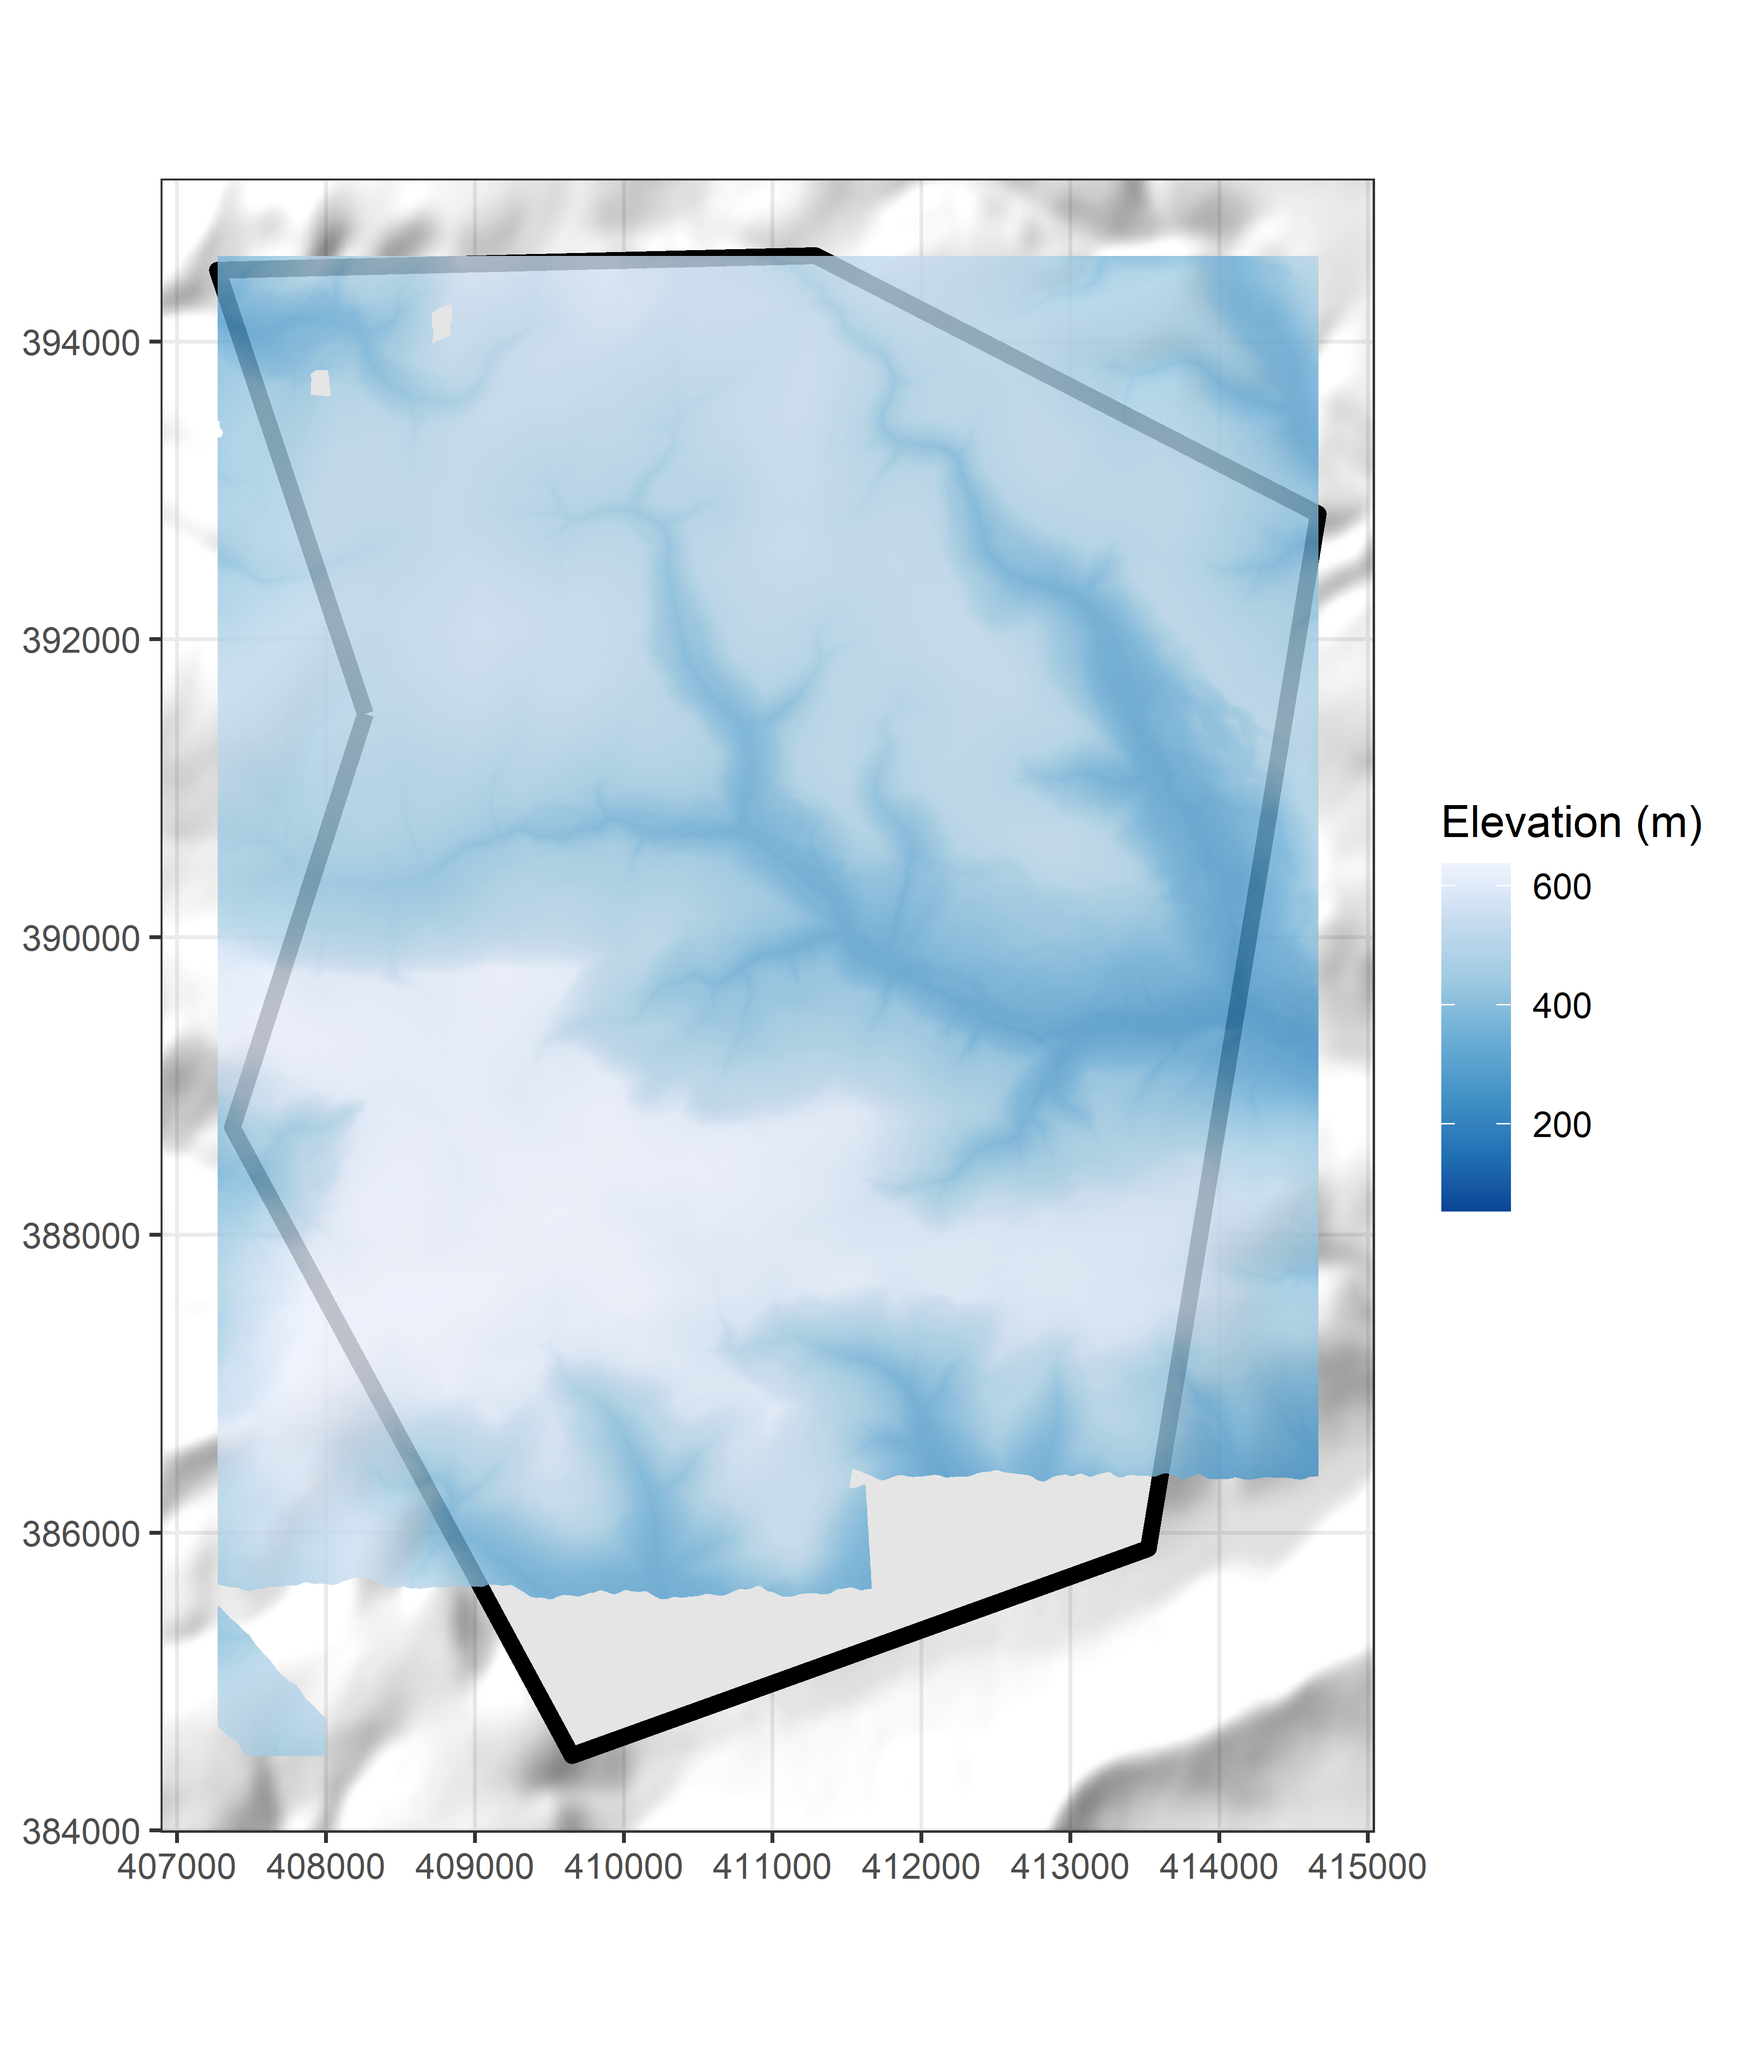
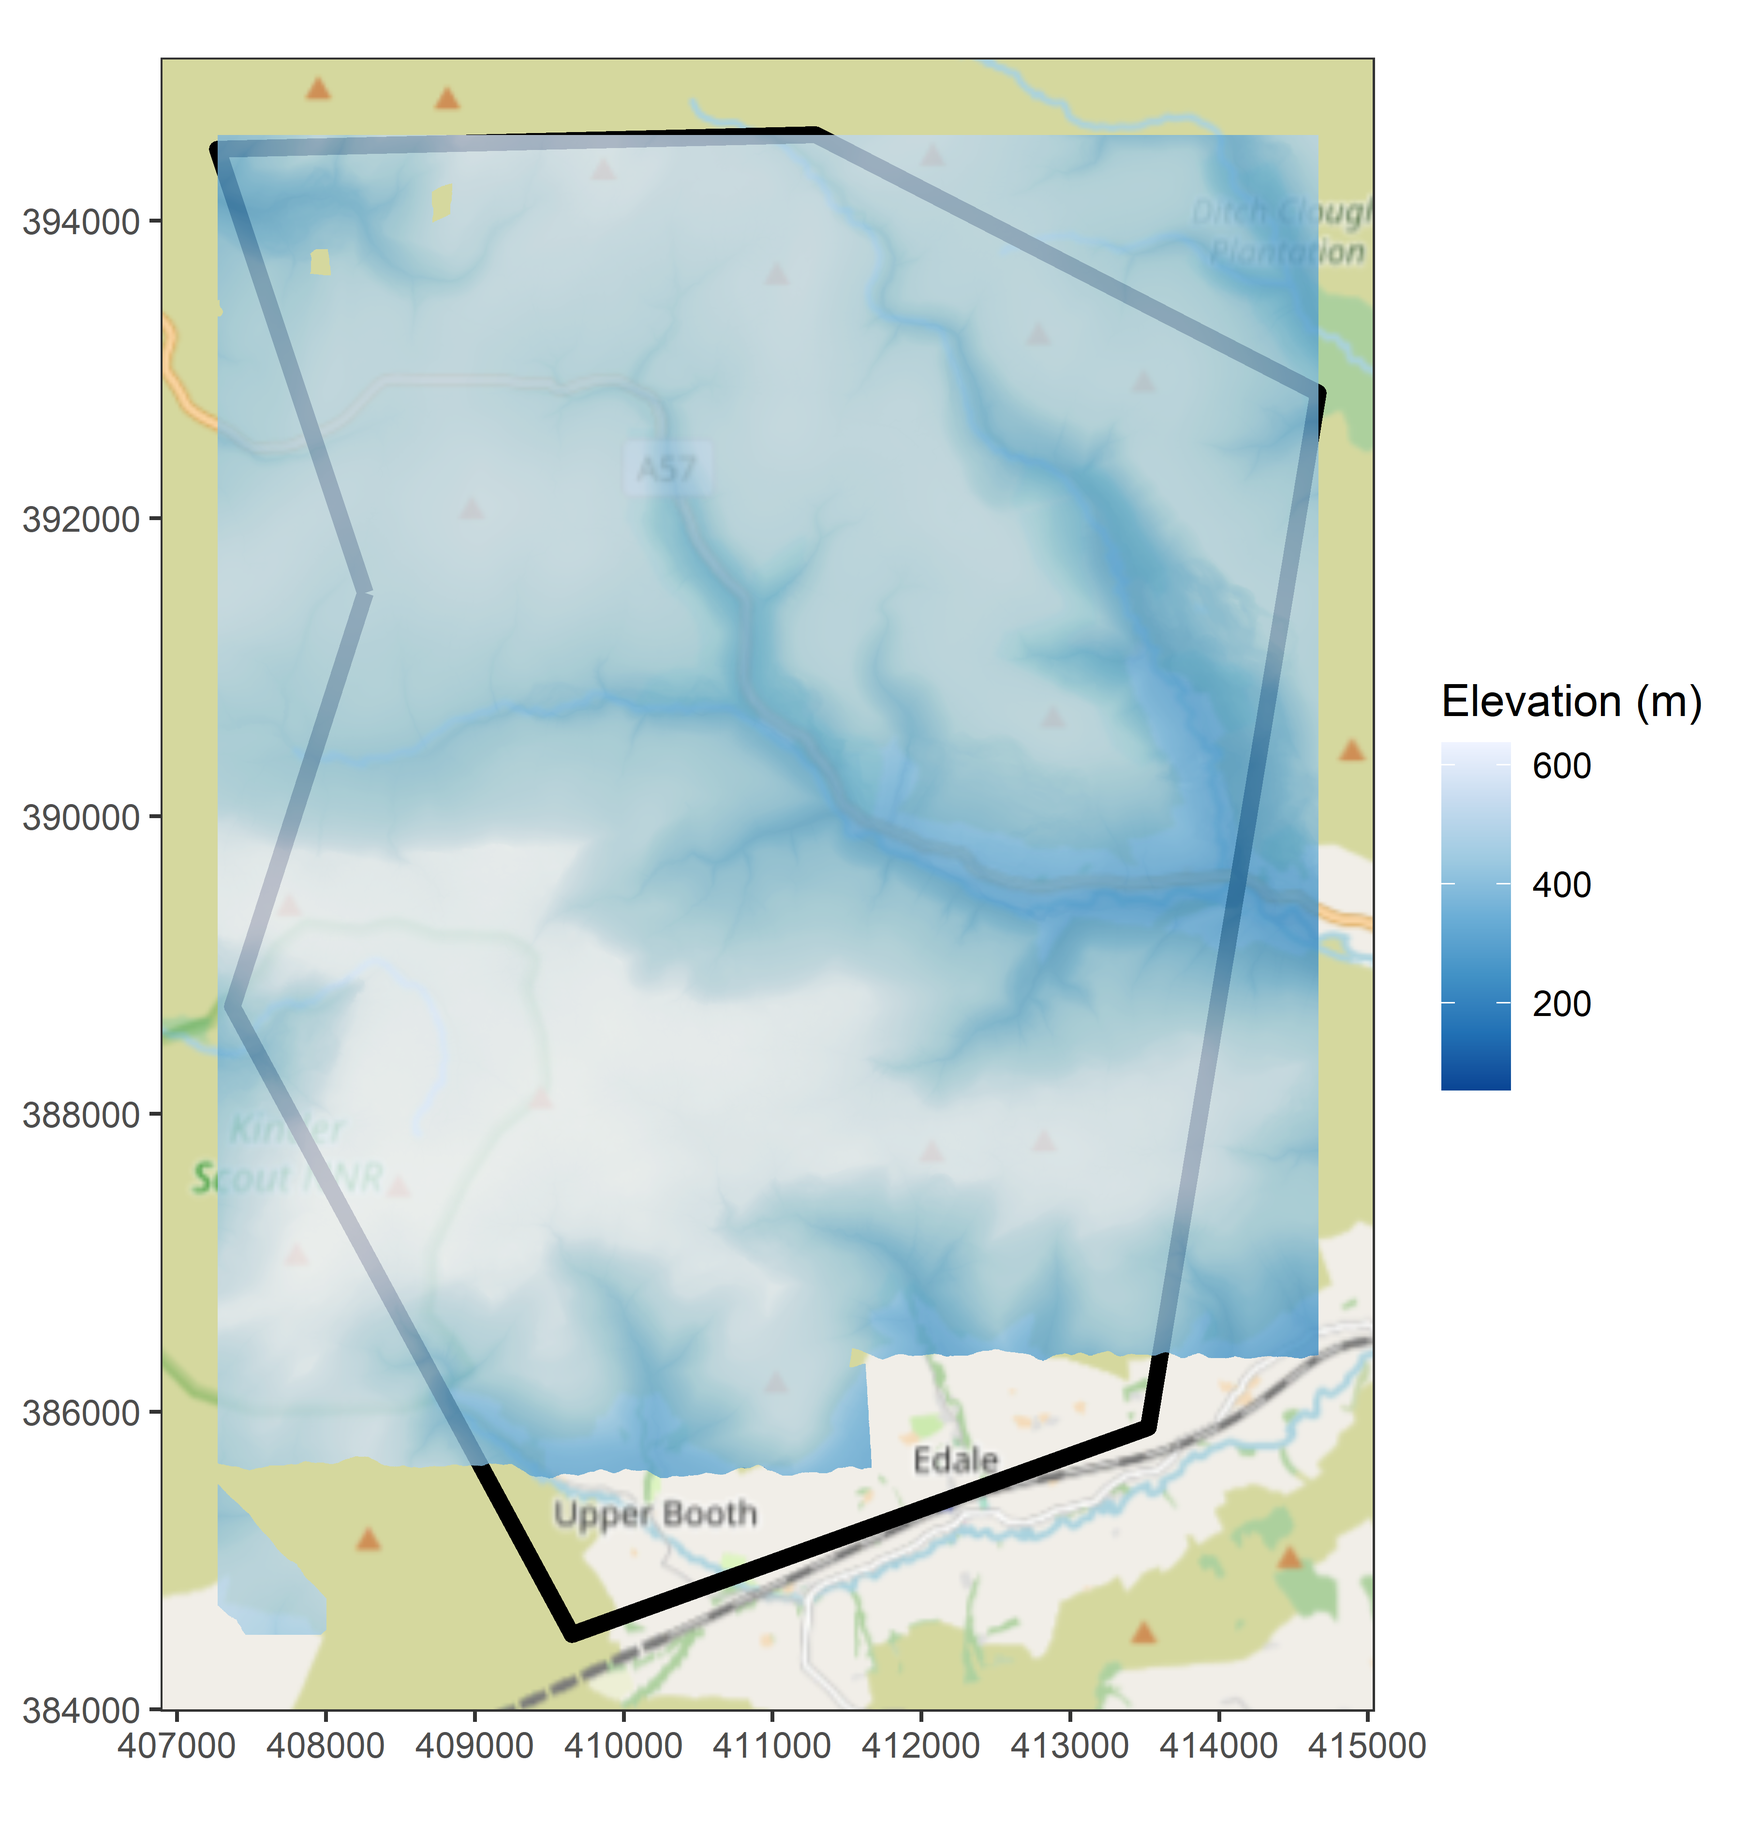
Suggestions from James now mostly fixed. Better error messaging. Silenced download bars/messaging. Included a progress bar for download but this doesn't work when tiles fail - needs work. updated Readme with new refactored args.

diff --git a/README.md b/README.md
@@ -4,6 +4,7 @@ An R package to download EA LiDAR composite data for England.
 
 This package is very much in development... I would really welcome any comments, suggestions, issues etc. If anything strange crops up please submit and issue here: https://github.com/h-a-graham/EAlidaR/issues 
 
+
 ### Background:
 
 The Environment Agency (EA) provide high resolution, open source elevation datasets for much of England. At present, the best (only?) way to download this data is via the ESRI-based web map portal (https://environment.data.gov.uk/DefraDataDownload/?Mode=survey). This has numerous drawbacks - there are limits to the number of files that can be extracted at any given time, the spatial join between the requested area and available tiles is very slow and the data is provided in zipped files of varying raster formats (mainly ASCII and GeoTiff). 
@@ -18,7 +19,7 @@ The purpose of this package is to provide a clean and easy way to download and i
 
 ### Examples:
 
-Here is a simple use case where we download the available 2m DTM data for the example region provided with the package `DerwentHeadwater`. using the `get_area` function we retrieve a single raster as 'merge.tiles' is TRUE. We can save this data in a desired location with 'dest.folder', 'out.name' and 'ras.format' arguments but, in this case, rasters are stored in the `tempfile()` location and will be available only during the active R session (unless subsequently saved with `raster::writeRaster`).
+Here is a simple use case where we download the available 2m DTM data for the example region provided with the package `DerwentHeadwater`. using the `get_area` function we retrieve a single raster as 'merge_tiles' is TRUE. We can save this data in a desired location with 'dest_folder', 'out_name' and 'ras_format' arguments but, in this case, rasters are stored in the `tempfile()` location and will be available only during the active R session (unless subsequently saved with `raster::writeRaster`).
 We then plot the data using the excellent ggplot and ggspatial packages see here for more cool ideas for plotting spatial data in R here: https://github.com/paleolimbot/ggspatial 
 
 ```
@@ -26,15 +27,15 @@ library(EAlidaR)
 library(ggplot2)
 library(ggspatial)
 
-rasAreaTest <- get_area(poly_area = DerwentHeadwater, resolution = 2, model.type = 'DTM', merge.tiles=TRUE, crop=TRUE)
+rasAreaTest <- get_area(poly_area = DerwentHeadwater, resolution = 2, model_type = 'DTM', merge_tiles=TRUE, crop=TRUE)
 
 ggplot() +
   # loads background map tiles from a tile source - rosm::osm.types() for osm options
-  annotation_map_tile(type = "hillshade", zoomin = -1) +
+  annotation_map_tile(type = "osm", zoomin = -1) +
   # requested area
-  annotation_spatial(DerwentHeadwater, size = 2, col = "black") +
+  annotation_spatial(DerwentHeadwater, size = 2, col = "black", fill = NA) +
   # raster layer
-  layer_spatial(rasAreaTest, alpha = 0.6) +
+  layer_spatial(rasAreaTest, alpha = 0.8) +
   # make no data values transparent
   scale_fill_distiller(na.value = NA, name='Elevation (m)') +
   # get real coords
@@ -44,9 +45,9 @@ ggplot() +
 ![Derwent Headwater Example](/man/figures/README_example.png)
 
 
-Alternatively, the function `get_tile` offers the ability to download the data from a single 5km OS tile. Make sure the case is correct in 'os.tile.name' with the first two characters in caps and last two in lower case. 'dest.folder' can be supplied to save the raster(s) in a specified location, otherwise it will be written to tempfile(). 'ras.format' is another optional argument that can be used to specify the raster driver used see `raster::writeFormats()` for options - default is GeoTiff.
+Alternatively, the function `get_tile` offers the ability to download the data from a single 5km OS tile. Make sure the case is correct in 'os_tile_name' with the first two characters in caps and last two in lower case. 'dest.folder' can be supplied to save the raster(s) in a specified location, otherwise it will be written to tempfile(). 'ras_format' is another optional argument that can be used to specify the raster driver used see `raster::writeFormats()` for options - default is GeoTiff.
 
 ```
-rasTile <- get_tile(resolution = 2, model.type = 'DTM' , os.tile.name = 'SU66nw')
+rasTile <- get_tile(os_tile_name = 'SU66nw', resolution = 2, model_type = 'DTM')
 
 ```
